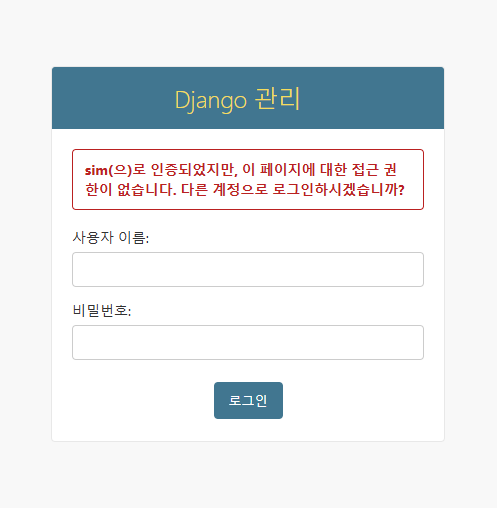
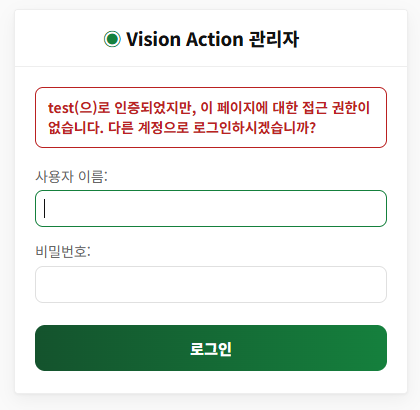
docs: README 보완, Admin 차단·T07 권한 캡처와 썸네일 교체

diff --git a/README.md b/README.md
@@ -84,7 +84,7 @@ docker compose exec django python manage.py createsuperuser
 <summary>🧪 테스트 실행</summary>
 
 ```bash
-docker compose exec django python manage.py test           # 웹·권한·Celery 저장 16개
+docker compose exec django python manage.py test           # 웹·권한·Celery 저장·사용자별 번호 17개
 docker compose exec fastapi python -m pytest -q tests      # AI 서버 7개 (테스트 영상이 있으면 실제 추론까지)
 ```
 
@@ -145,6 +145,7 @@ erDiagram
     AnalysisJob {
         bigint id PK
         int user_id FK
+        int user_no "사용자별 번호 1, 2, 3…"
         string title
         text memo
         string input_type "upload | ip_webcam"
@@ -180,10 +181,11 @@ erDiagram
 | 테이블 | 저장하는 것 |
 |---|---|
 | `auth_user` | 회원(아이디, 비밀번호 해시, 관리자 여부) |
-| `AnalysisJob` | 분석 요청 1건: 누가, 어떤 입력으로, 지금 상태, 오류 사유, 처리 시간 |
+| `AnalysisJob` | 분석 요청 1건: 누가, 어떤 입력으로, 지금 상태, 오류 사유, 처리 시간. 화면에는 사용자별 번호(`user_no`)로 표시 |
 | `PersonPrediction` | 한 작업 안의 사람 1명의 예측. 두 사람이 나오면 작업 1건에 2행. `(job, track_id)` 유일. 화면 그래프에 쓰는 판단 근거(`details`)도 함께 저장 |
 
 - 영상 파일 자체는 DB가 아니라 Media 볼륨에 두고 경로만 저장합니다.
+- `id`는 전체 사용자 공통 번호(주소·API·Admin에서 사용), `user_no`는 그 사용자의 몇 번째 작업인지(화면 표시용)입니다. 새 작업을 만들 때 그 사용자의 마지막 번호 + 1로 정하고, 이미 있던 작업은 마이그레이션 `0003`이 만든 순서대로 채웠습니다.
 - IP Webcam 주소는 DB·화면에 남기지 않고 허용 목록 번호(`camera_index`)만 저장합니다.
 - 작업을 삭제하면 사람별 예측은 `CASCADE`로 함께 지우고 영상 파일도 지웁니다. 처리 중(STARTED)인 작업은 삭제할 수 없습니다.
 
@@ -351,6 +353,8 @@ sequenceDiagram
 | 모델 파일 로드 | `joblib.load()` 바로 호출 | SHA256 해시 확인 후 로드 | `joblib.load`는 pickle 실행 → 우리 파일인지 확인 |
 | 입력 품질 | 없음 | 검출 Frame 비율·관절 Confidence로 좋음/보통/나쁨 표시 | 과제 문서: "Confidence와 입력 품질을 함께 표시" |
 | 카메라 주소 | 사용자 입력 | `.env` 허용 목록에서 번호로만 선택 | 임의 URL 호출(SSRF) 방지, 접속정보 비노출 |
+| 작업 번호 | DB id 그대로 | 화면에는 사용자별 번호(`user_no`), 주소·API·Admin에는 전체 공통 id | id만 쓰면 다른 회원 작업 때문에 내 이력이 1, 3, 4…로 띄엄띄엄 보임 |
+| 화면 테마 | 없음 | 흰/어두운 회색 배경 + 그린 포인트, 라이트/다크 전환(브라우저에 기억), Django Admin도 같은 테마 | 발표·캡처 환경에 맞게 고를 수 있고, 서비스와 관리자 화면이 한 제품처럼 보이게 |
 | 결과 화면 | 동작 이름과 확률 | 영상 한 건의 판단 근거(구간별 확률 그래프, 구간 일치율, 관절 인식 품질)를 함께 표시 | 확률이 낮은 모델이라 숫자 하나보다 "왜 이 답인지, 왜 보류했는지"를 보여 주는 게 더 정직함 |
 
 참고 논문
@@ -390,6 +394,25 @@ sequenceDiagram
 - 확인한 곳: `docker compose logs fastapi` → YOLO warmup 중 `import torchvision`에서 실패
 - 원인: torch는 CPU 전용 저장소에서, torchvision은 ultralytics 의존성으로 PyPI에서 따로 설치돼 서로 다른 torch 판으로 빌드된 짝이 됨
 - 바꾼 것: Dockerfile에서 torch와 torchvision을 같은 CPU 저장소에서 함께 설치
+
+**8) `docker compose up` 후 django만 안 뜸 (`port is already allocated`)**
+- 보인 문제: `docker compose ps`에 django가 없고, `createsuperuser`가 `service "django" is not running`
+- 확인한 곳: `docker ps --filter publish=8000` → 예전 실습 컨테이너 `fastapi_resnet18-web-1`이 8000번 사용 중
+- 바꾼 것: 예전 컨테이너를 멈추고(`docker stop`) 자동 재시작을 끔(`docker update --restart=no`)
+- 확인: `docker compose up -d` 후 5개 서비스 모두 Up
+
+**9) django가 계속 재시작 (`failed to resolve host 'postgres'`)**
+- 보인 문제: `createsuperuser` 실행 시 `Container … is restarting`
+- 확인한 곳: `docker compose logs django` → DB 주소 `postgres`를 찾지 못함
+- 원인: 포트 충돌로 django만 따로 만들어지다 실패한 컨테이너가 남아 지금 Compose 네트워크와 연결되지 않음
+- 바꾼 것: `docker compose down`(데이터 볼륨은 유지) 후 `docker compose up -d`로 컨테이너·네트워크를 새로 만듦
+- 확인: 5개 서비스 Up, 기존 작업 기록 그대로 남음
+
+**10) 내 분석 이력 번호가 1, 3, 4…로 띄엄띄엄 보임**
+- 보인 문제: 다른 계정으로 분석한 뒤 내 계정 이력에서 2번이 빠져 보임
+- 원인: 화면에 DB의 전체 공통 id를 그대로 보여 줌 (목록은 본인 것만 나오므로 권한 문제는 아님)
+- 바꾼 것: `AnalysisJob.user_no`(사용자별 번호) 추가, 화면은 `user_no`, 주소·API·Admin은 id 유지
+- 확인: `test_user_no_counts_per_user` — A 1·2, B 1로 따로 매겨짐
 
 ## 폴더 구조
 
